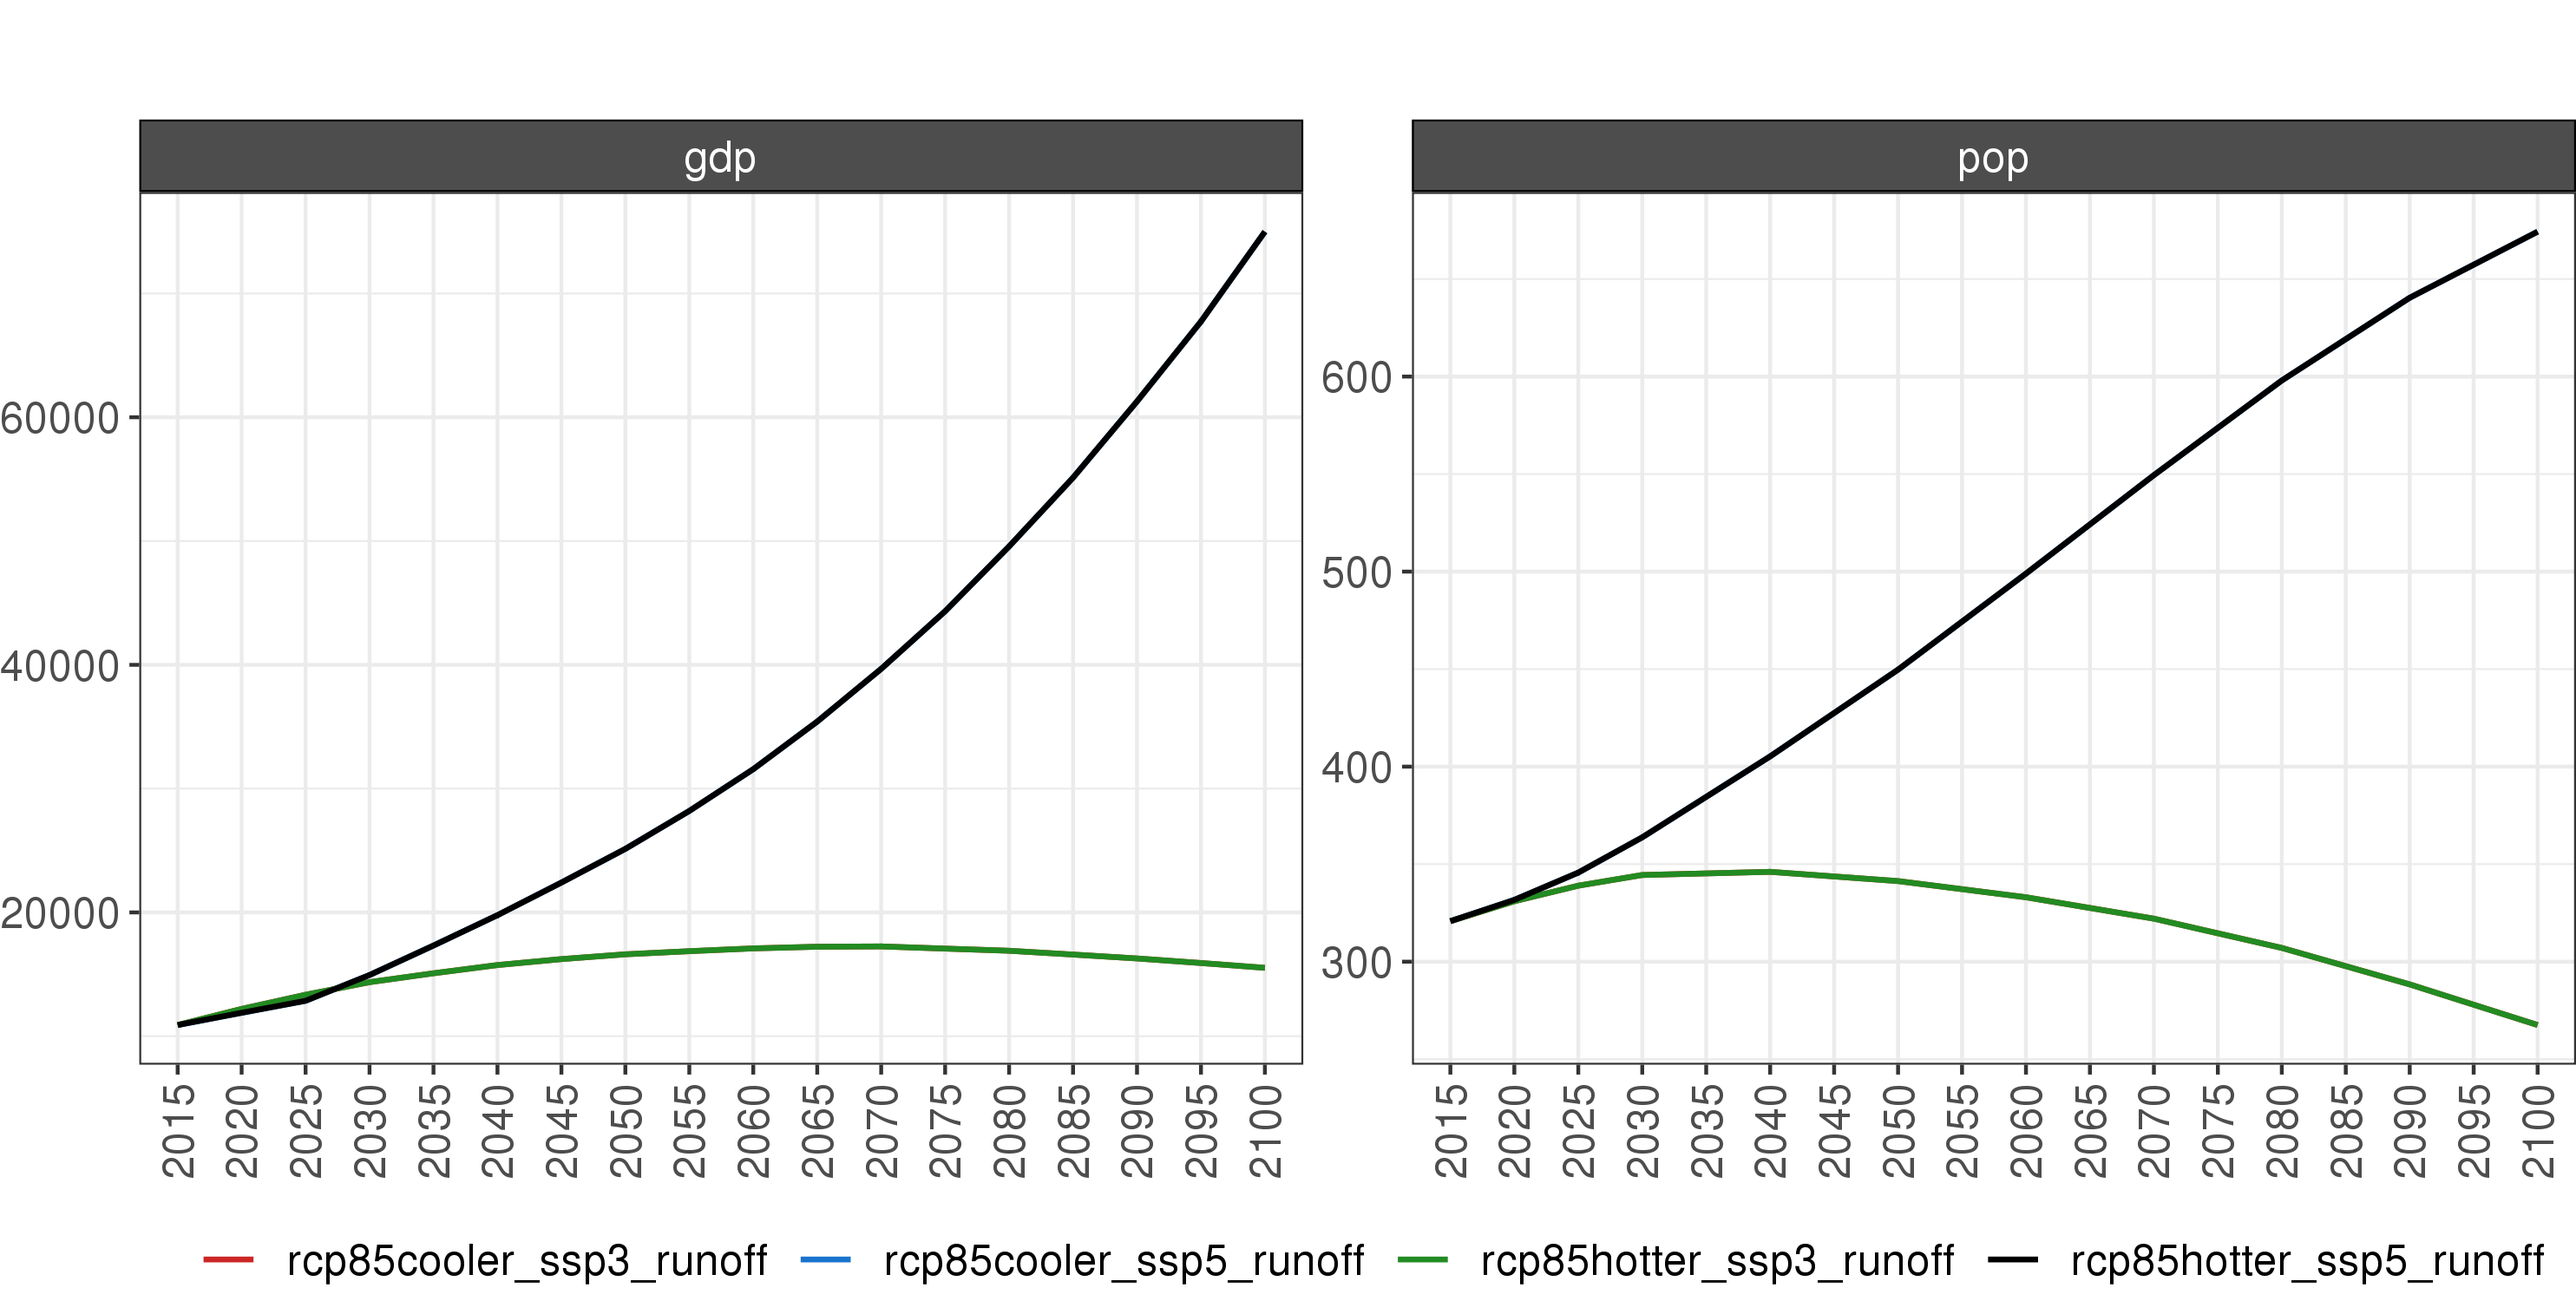
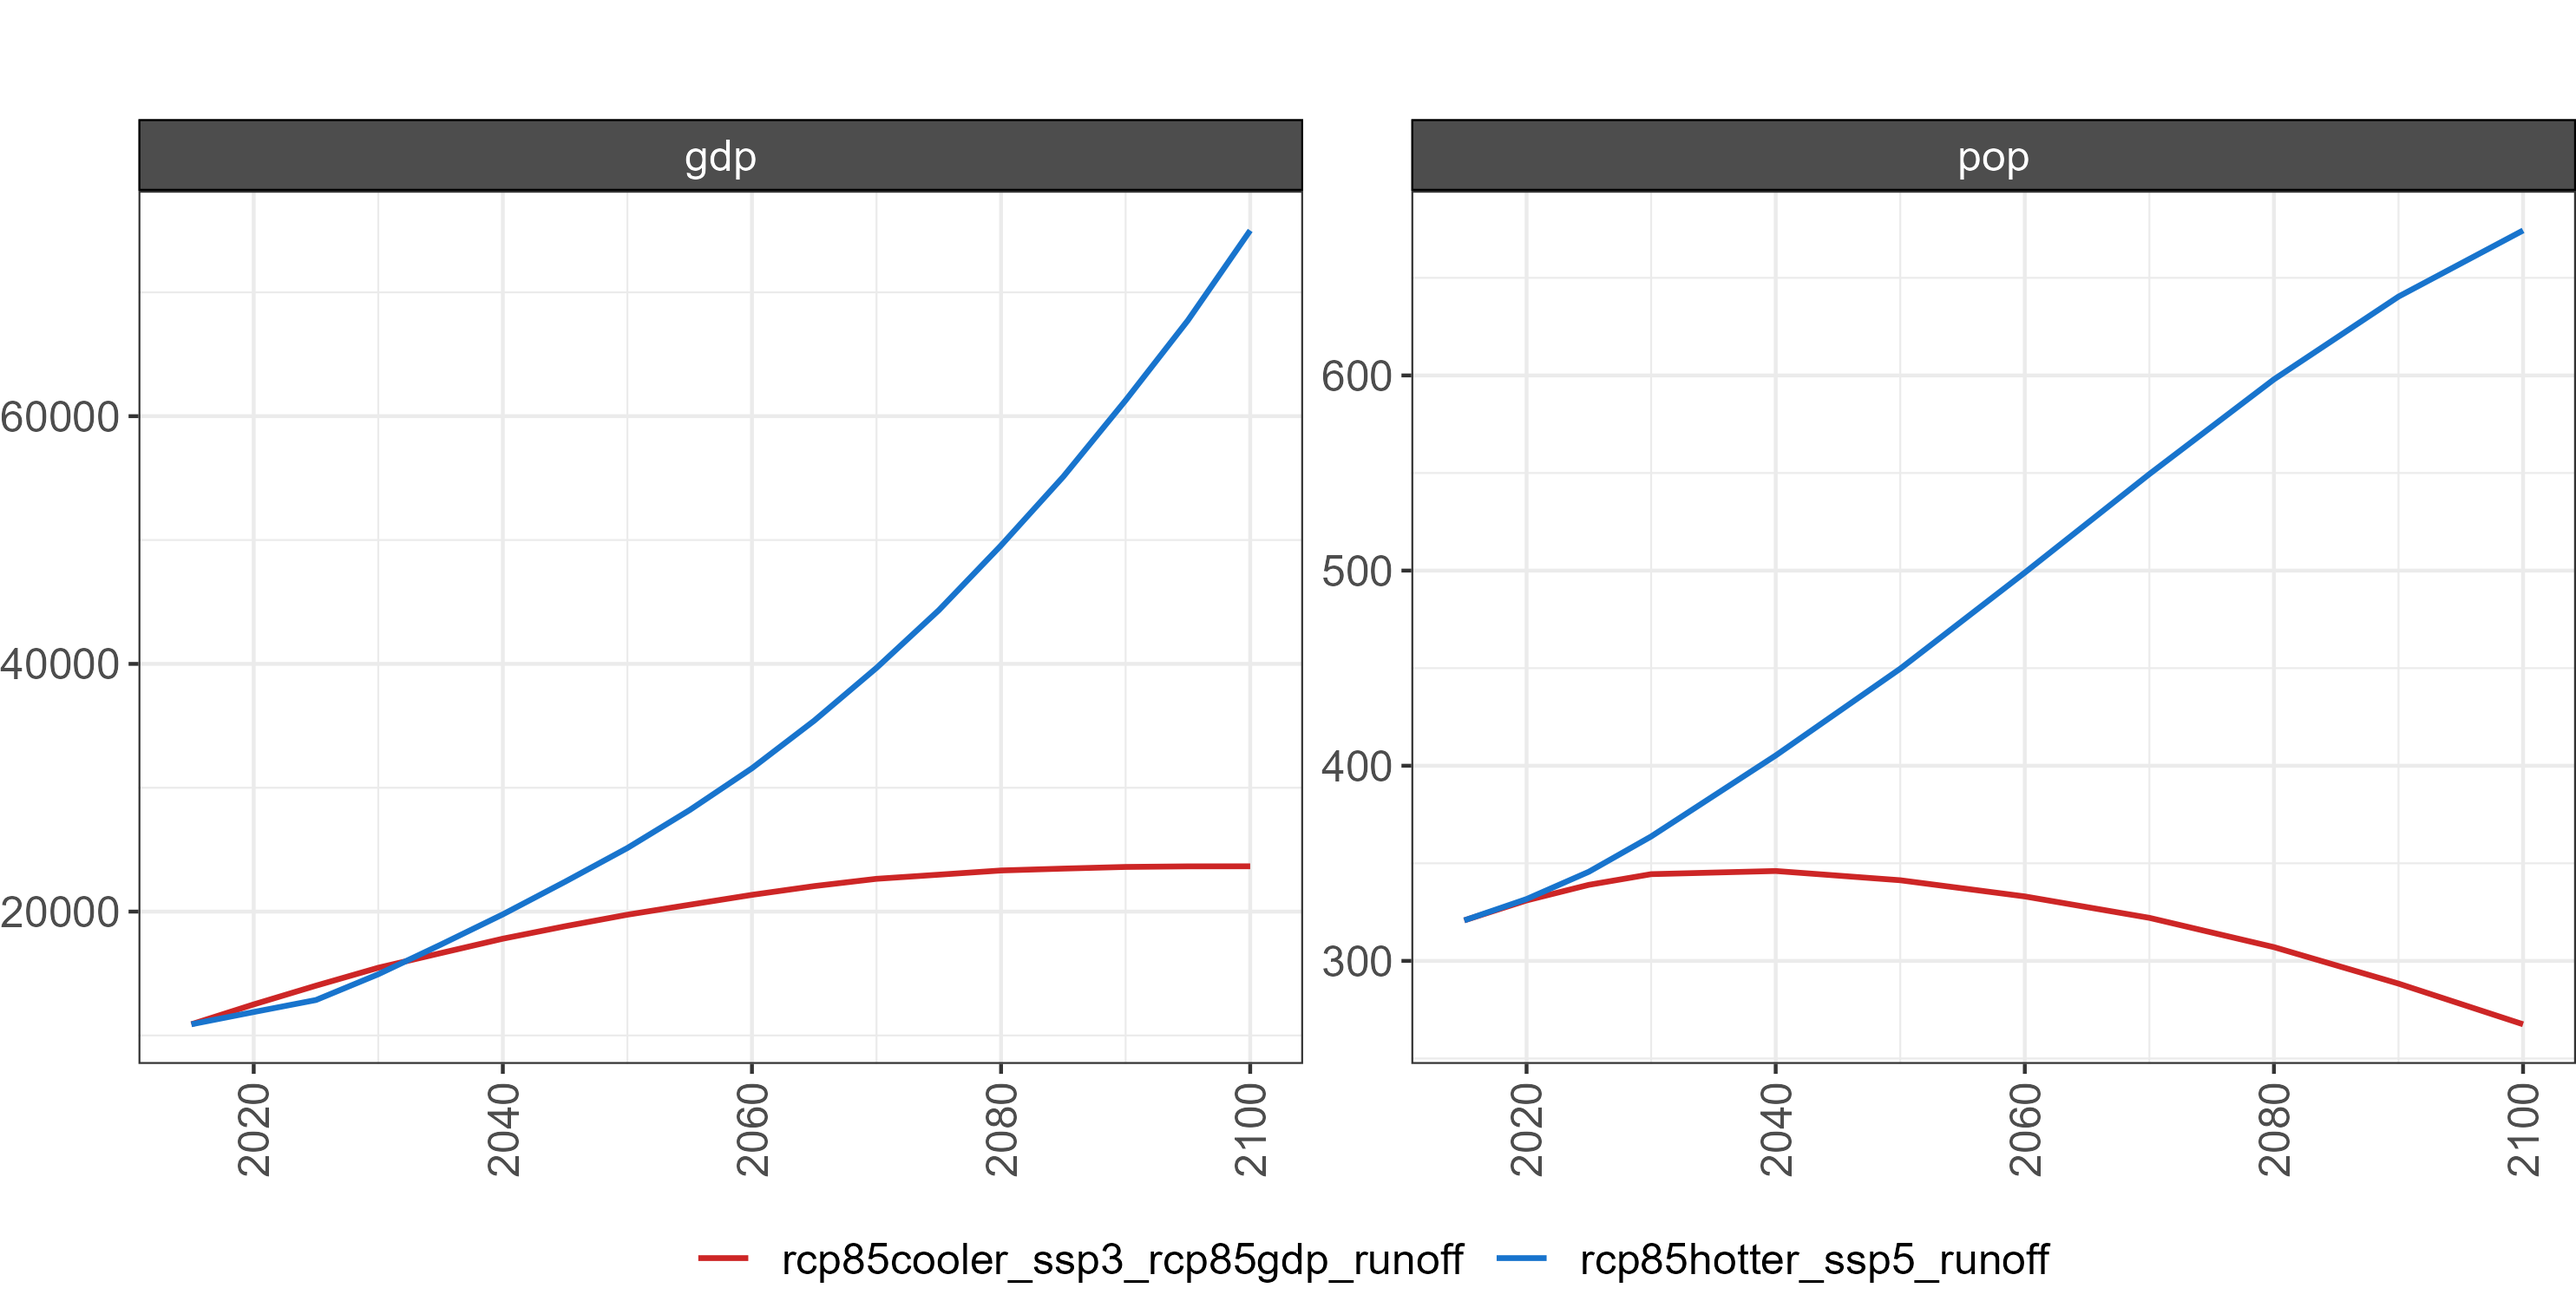
deploy: c2ad8fe990b525683af86c08299231dc9fe031e0

diff --git a/metarepo.html b/metarepo.html
@@ -686,26 +686,90 @@ zenodo link
 <img src="images/divider.png" />
 </p>
 <p><br></p>
-<p>We model two emissions pathways, RCP8.5 and RCP4.5. RCP8.5 is the default pathway in GCAM-USA. Thus, no modifications to the source code are required in order to run an RCP8.5 scenario. For RCP4.5, we impose a global CO2 emissions constraint. This emissions constraint in turn is based on the GCAM core model, version 5.4, a global model differentiating 32 world regions. Specifically, we run GCAM 5.4 in target finder mode.</p>
+<p>We model two emissions pathways, RCP8.5 and RCP4.5. RCP8.5 is the default pathway in GCAM-USA. Thus, no modifications to the source code are required in order to run an RCP8.5 scenario. For RCP4.5, we impose a global CO<sub>2</sub> emissions constraint. This emissions constraint in turn is based on the GCAM core model, release version 5.4 (publicly available <a href="https://github.com/JGCRI/gcam-core/releases/tag/gcam-v5.4">here</a>), a global model differentiating 32 world regions. Specifically, we run GCAM 5.4 in target finder mode.</p>
 <p><br></p>
-<div id="running-gcam-in-target-finder-mode" class="section level2 tabset">
-<h2 class="tabset">Running GCAM in target finder mode</h2>
+<div id="running-gcam-5.4-in-target-finder-mode" class="section level2 tabset">
+<h2 class="tabset">Running GCAM 5.4 in target finder mode</h2>
 <p><br></p>
-<p>As described in the GCAM online documentation on GitHub (<a href="https://jgcri.github.io/gcam-doc/user-guide.html#target-finder" class="uri">https://jgcri.github.io/gcam-doc/user-guide.html#target-finder</a>), running GCAM in target finder mode requires enabling the find-path option in the respective configuration file, whichb is exe/configuration_RCP45.xml when running an RCP4.5 scenario:</p>
-<p><Value name="find-path">1</Value></p>
-<p>Then, the configuration file must be called in exe/run-gcam.bat:</p>
-<p>gcam.exe -C configuration_RCP45.xml</p>
+<p>As described in the <a href="https://jgcri.github.io/gcam-doc/user-guide.html#target-finder">GCAM online documentation on GitHub</a>, running GCAM 5.4 in target finder mode requires enabling (setting to 1) the <code>find-path</code> option in the respective configuration file, which is <code>gcam-core/exe/configuration_RCP45.xml</code> when running an RCP4.5 scenario:</p>
+<p><code>"&lt;Value name="find-path"&gt;1&lt;/Value&gt;"</code></p>
+<p>Then, the configuration file must be called in <code>gcam-core/exe/run-gcam.sh</code> as follows:</p>
+<p><code>gcam.exe -C configuration_RCP45.xml</code></p>
+<p>Once the model run is finished, results can be extracted using the model interface: <code>gcam-core/ModelInterface/run-model-interface.bat</code>. Specifically, we query “CO2 emissions by region” and “LUC emissions by region” for the region “Global” and sum up the values for each year in a separate spreadsheet.</p>
+<p>The figure below illustrates the final CO<sub>2</sub> pathway, as well as the corresponding CO<sub>2</sub>-price pathway and the resulting radiative forcing:</p>
+<p><br></p>
+<div class="figure" style="text-align: center">
+<img src="images/rcp45_pathway.png" alt="**Overview of the RCP4.5 emissions pathway in GCAM.**" width="100%" />
+<p class="caption">
+<strong>Overview of the RCP4.5 emissions pathway in GCAM.</strong>
+</p>
+</div>
+<!-- updated on 4/12/22 -->
+<!-- location for images: meta_repos/khan-etal_2022_im3gcamusa/webpage/images -->
+<p><br></p>
 <p><br></p>
 </div>
 <div id="implementing-co2-emissions-constraint-in-gcam-usa" class="section level2 tabset">
-<h2 class="tabset">Implementing CO2 emissions constraint in GCAM-USA</h2>
+<h2 class="tabset">Implementing CO<sub>2</sub> Emissions Constraint In GCAM-USA</h2>
 <p><br></p>
-<p>The resulting pathway of CO2 emissions from land use and energy is then used as a CO2 emissions constraint in GCAM-USA. Therefore, we create a file named input/policy/global_CO2_constraint.xml.</p>
-<p>[Zarrar, is it possible to upload these files directly? It is sometimes too cumbersome to describe the changes made.]</p>
-<p>We then create a new configuration file named configuration_mult_USA_SSP5_CO2constr.xml. It is based on the existing file configuration_mult_USA_SSP5.xml found in the exe folder. The difference in our new configuration file is the addition of the following lines of code immediately after cal_broyden_config.xml is called:</p>
+<p>The resulting pathway of CO<sub>2</sub> emissions from land use and energy is then used as a CO<sub>2</sub> emissions constraint in GCAM-USA. Therefore, we use a file named <code>/pic/projects/im3/gcamusa/gcam-usa-im3/input/policy/global_CO2_constraint.xml</code> into which we input the CO<sub>2</sub> emissions values calculated by GCAM 5.4 (as described above) as constraints. We also add an accompanying file called <code>/pic/projects/im3/gcamusa/gcam-usa-im3/input/policy/global_CO2_link.xml</code> which performs additional required tasks.</p>
+<p>We then create a set of new configuration files in <code>/pic/projects/im3/gcamusa/gcam-usa-im3/exe/</code> based on existing ones:</p>
+<br>
+<table class="table table-striped table-hover table-condensed table-responsive" style="margin-left: auto; margin-right: auto;">
+<thead>
+<tr>
+<th style="text-align:left;">
+Exisitng.file
+</th>
+<th style="text-align:left;">
+New.file
+</th>
+</tr>
+</thead>
+<tbody>
+<tr>
+<td style="text-align:left;">
+configuration_rcp85cooler_ssp3_rcp85gdp_runoff.xml
+</td>
+<td style="text-align:left;">
+configuration_rcp45cooler_ssp3_rcp45gdp_runoff.xml
+</td>
+</tr>
+<tr>
+<td style="text-align:left;">
+configuration_rcp85hotter_ssp3_rcp85gdp_runoff.xml
+</td>
+<td style="text-align:left;">
+configuration_rcp45hotter_ssp3_rcp45gdp_runoff.xml
+</td>
+</tr>
+<tr>
+<td style="text-align:left;">
+configuration_rcp85cooler_ssp5_runoff.xml
+</td>
+<td style="text-align:left;">
+configuration_rcp45cooler_ssp5_runoff.xml
+</td>
+</tr>
+<tr>
+<td style="text-align:left;">
+configuration_rcp85hotter_ssp5_runoff.xml
+</td>
+<td style="text-align:left;">
+configuration_rcp45hotter_ssp5_runoff.xml
+</td>
+</tr>
+</tbody>
+</table>
+<p><br></p>
+<p>The main difference in our new configuration files is the addition of the following lines of code immediately after <code>cal_broyden_config.xml</code> is called:</p>
 <pre><code>&lt;!--POLICY ADD ONS--&gt;
 &lt;Value name = &quot;global_CO2_constraint&quot;&gt;../input/policy/global_CO2_constraint.xml&lt;/Value&gt;
 &lt;Value name = &quot;global_CO2_link&quot;&gt;../input/policy/global_CO2_link.xml&lt;/Value&gt;</code></pre>
+<p>In addition, the following lines need to be updated accordingly in each configuration file (e.g. replace <code>rcp85hotter</code> by <code>rcp45cooler</code> etc.):</p>
+<p><code>&lt;Value write-output="1" append-scenario-name="0" name="xmldb-location"&gt;../output/database_rcp85hotter_ssp3_rcp85gdp_runoff&lt;/Value&gt;</code></p>
+<p><code>&lt;Value name="ccs_supply"&gt;../input/im3scenarios/rcp85hotter/Basin_runoff_km3peryear_comb_ssp585_rcp85_noresm_1979_2100_window5trail_delta_applied2015.xml&lt;/Value&gt;</code></p>
+<p><code>&lt;Value name="scenarioName"&gt;rcp85hotter_ssp3_rcp85gdp_runoff&lt;/Value&gt;</code></p>
 <p><br></p>
 <!-------------------------->
 <!-------------------------->
@@ -1283,10 +1347,33 @@ zenodo link
 <strong>Delta processing diagnostics for selected US Basins for rcp85hotter_ssp5</strong>
 </p>
 </div>
+<p><br></p>
+</div>
+<div id="maps-of-water-runoff-in-the-us" class="section level4">
+<h4>Maps of water runoff in the US</h4>
+<p><br></p>
+<div class="figure" style="text-align: center">
+<img src="images/map_param_2100_KMEANS.png" alt="**Comparison of global water runoff in 2100 (km3) under RCP8.5 hotter and RCP8.5 cooler**" width="100%" />
+<p class="caption">
+<strong>Comparison of global water runoff in 2100 (km3) under RCP8.5 hotter and RCP8.5 cooler</strong>
+</p>
+</div>
+<div class="figure" style="text-align: center">
+<img src="images/map_param_2100_KMEANS_DiffAbs.png" alt="**Absolute difference of global water runoff in 2100 (km3) under RCP8.5 hotter and RCP8.5 cooler**" width="100%" />
+<p class="caption">
+<strong>Absolute difference of global water runoff in 2100 (km3) under RCP8.5 hotter and RCP8.5 cooler</strong>
+</p>
+</div>
+<div class="figure" style="text-align: center">
+<img src="images/map_param_2100_KMEANS_DiffPrcnt.png" alt="**Relative difference of global water runoff in 2100 (km3) under RCP8.5 hotter and RCP8.5 cooler**" width="100%" />
+<p class="caption">
+<strong>Relative difference of global water runoff in 2100 (km3) under RCP8.5 hotter and RCP8.5 cooler</strong>
+</p>
 </div>
 </div>
-<div id="gcam-rcp85hotter_ssp35_runoff" class="section level3 tabset tabset-pills">
-<h3 class="tabset tabset-pills">GCAM rcp85hotter_ssp35_runoff</h3>
+</div>
+<div id="gcam-rcp85hotter_ssp3_runoff" class="section level3 tabset tabset-pills">
+<h3 class="tabset tabset-pills">GCAM rcp85hotter_ssp3_runoff</h3>
 <div id="summary-2" class="section level4">
 <h4>Summary</h4>
 <p><br></p>
@@ -1296,6 +1383,7 @@ zenodo link
 <strong>Comparison of GCAM outputs global runoff for 5 GCMS </strong>
 </p>
 </div>
+<!--updated on 4/12/2022-->
 </div>
 <div id="socioeconomics-2" class="section level4">
 <h4>Socioeconomics</h4>
@@ -1306,6 +1394,7 @@ zenodo link
 <strong>Comparison of GCAM socioeconomic outputs</strong>
 </p>
 </div>
+<!--updated on 4/12/2022-->
 <p><br></p>
 <div class="figure" style="text-align: center">
 <img src="images/chart_param_diff_percent_socioecon_im3_runoff.png" alt="**Comparison of GCAM socioeconomic outputs % Diff**" width="100%" />
@@ -1393,30 +1482,31 @@ zenodo link
 <h4>Emissions</h4>
 <p><br></p>
 <div class="figure" style="text-align: center">
-<img src="images/compareCO2GlobalCumRCP_im3_runoff.png" alt="**Comparison of GCAM emissions outputs for 5 GCMS **" width="100%" />
+<img src="images/compareCO2GlobalCumRCP_im3_runoff_ssp3_rcp85gdp.png" alt="**Cumulative global carbon emission pathways under different combinations of SSP3/SSP5 and RCP4.5/RCP8.5 **" width="100%" />
 <p class="caption">
-<strong>Comparison of GCAM emissions outputs for 5 GCMS </strong>
+<strong>Cumulative global carbon emission pathways under different combinations of SSP3/SSP5 and RCP4.5/RCP8.5 </strong>
+</p>
+</div>
+<!-- updated on 4/12/22 -->
+<p><br></p>
+<div class="figure" style="text-align: center">
+<img src="images/compareCO2USA_im3_runoff.png" alt="**Annual US carbon emissions under different combinations of SSP3/SSP5 and RCP4.5/RCP8.5 **" width="100%" />
+<p class="caption">
+<strong>Annual US carbon emissions under different combinations of SSP3/SSP5 and RCP4.5/RCP8.5 </strong>
 </p>
 </div>
 <p><br></p>
 <div class="figure" style="text-align: center">
-<img src="images/compareCO2USA_im3_runoff.png" alt="**Comparison of GCAM emissions outputs for 5 GCMS **" width="100%" />
+<img src="images/compareNonCO2global_im3_runoff.png" alt="**Annual global non-CO~2~ emissions under different combinations of SSP3/SSP5 and RCP4.5/RCP8.5 **" width="100%" />
 <p class="caption">
-<strong>Comparison of GCAM emissions outputs for 5 GCMS </strong>
+<strong>Annual global non-CO<sub>2</sub> emissions under different combinations of SSP3/SSP5 and RCP4.5/RCP8.5 </strong>
 </p>
 </div>
 <p><br></p>
 <div class="figure" style="text-align: center">
-<img src="images/compareNonCO2global_im3_runoff.png" alt="**Comparison of GCAM emissions outputs for 5 GCMS **" width="100%" />
+<img src="images/compareNonCO2USA_im3_runoff.png" alt="**Annual US non-CO~2~ emissions under different combinations of SSP3/SSP5 and RCP4.5/RCP8.5 **" width="100%" />
 <p class="caption">
-<strong>Comparison of GCAM emissions outputs for 5 GCMS </strong>
-</p>
-</div>
-<p><br></p>
-<div class="figure" style="text-align: center">
-<img src="images/compareNonCO2USA_im3_runoff.png" alt="**Comparison of GCAM emissions outputs for 5 GCMS **" width="100%" />
-<p class="caption">
-<strong>Comparison of GCAM emissions outputs for 5 GCMS </strong>
+<strong>Annual US non-CO<sub>2</sub> emissions under different combinations of SSP3/SSP5 and RCP4.5/RCP8.5 </strong>
 </p>
 </div>
 <!-------------------------->
